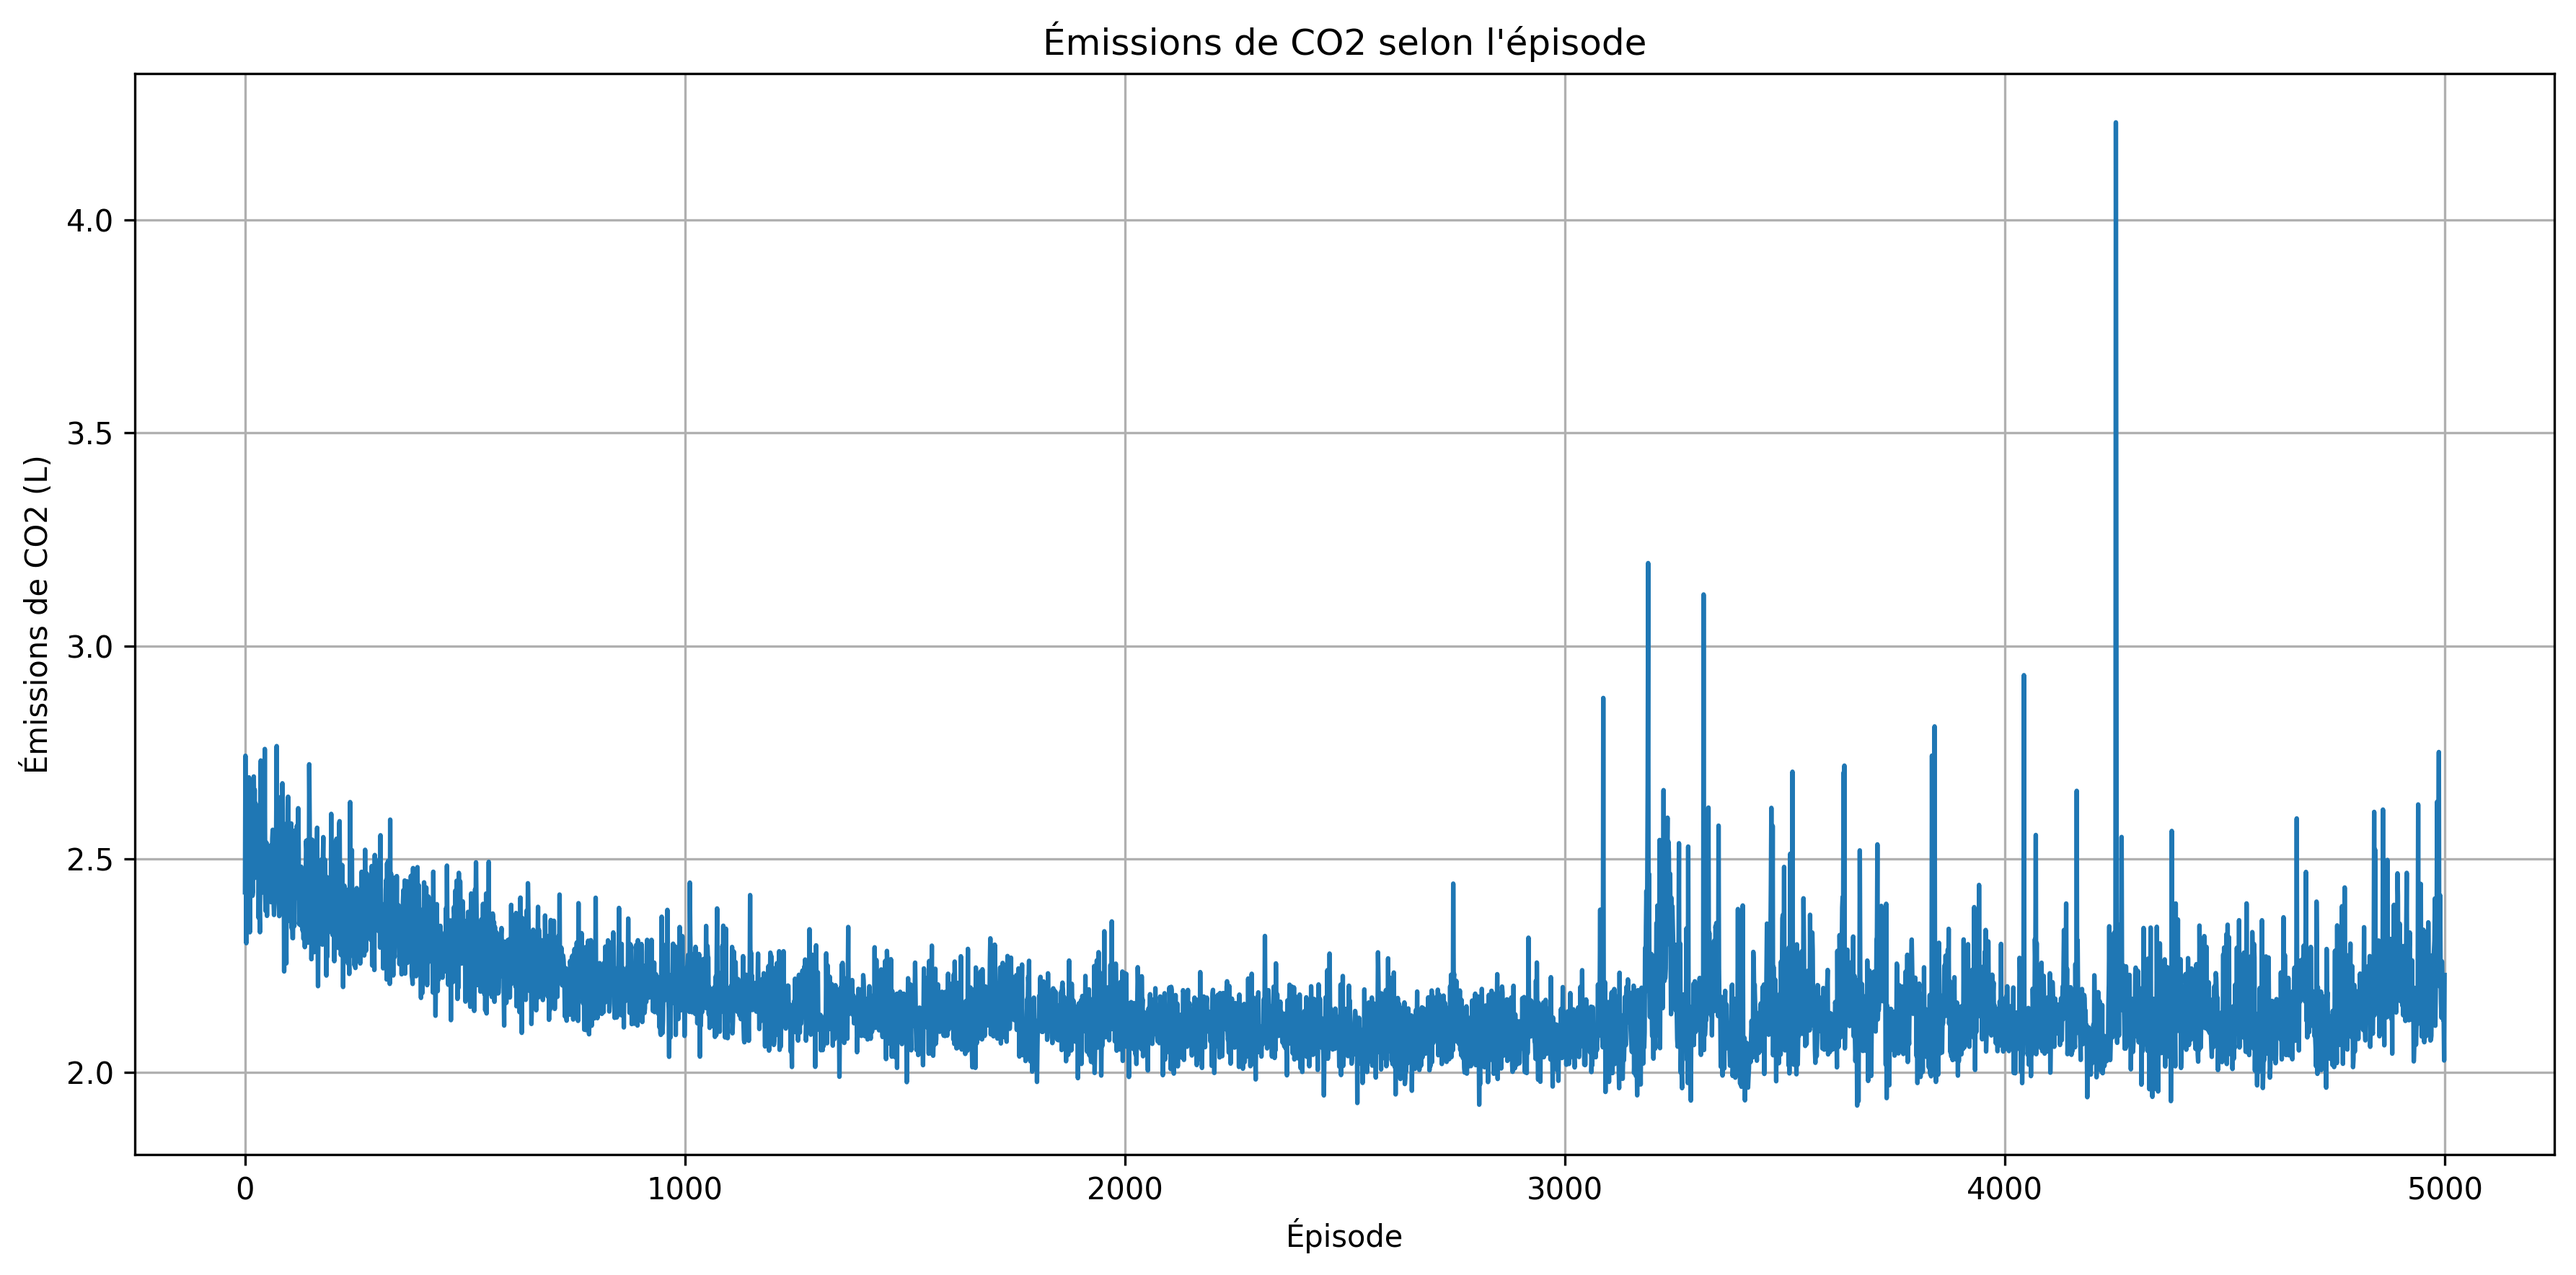
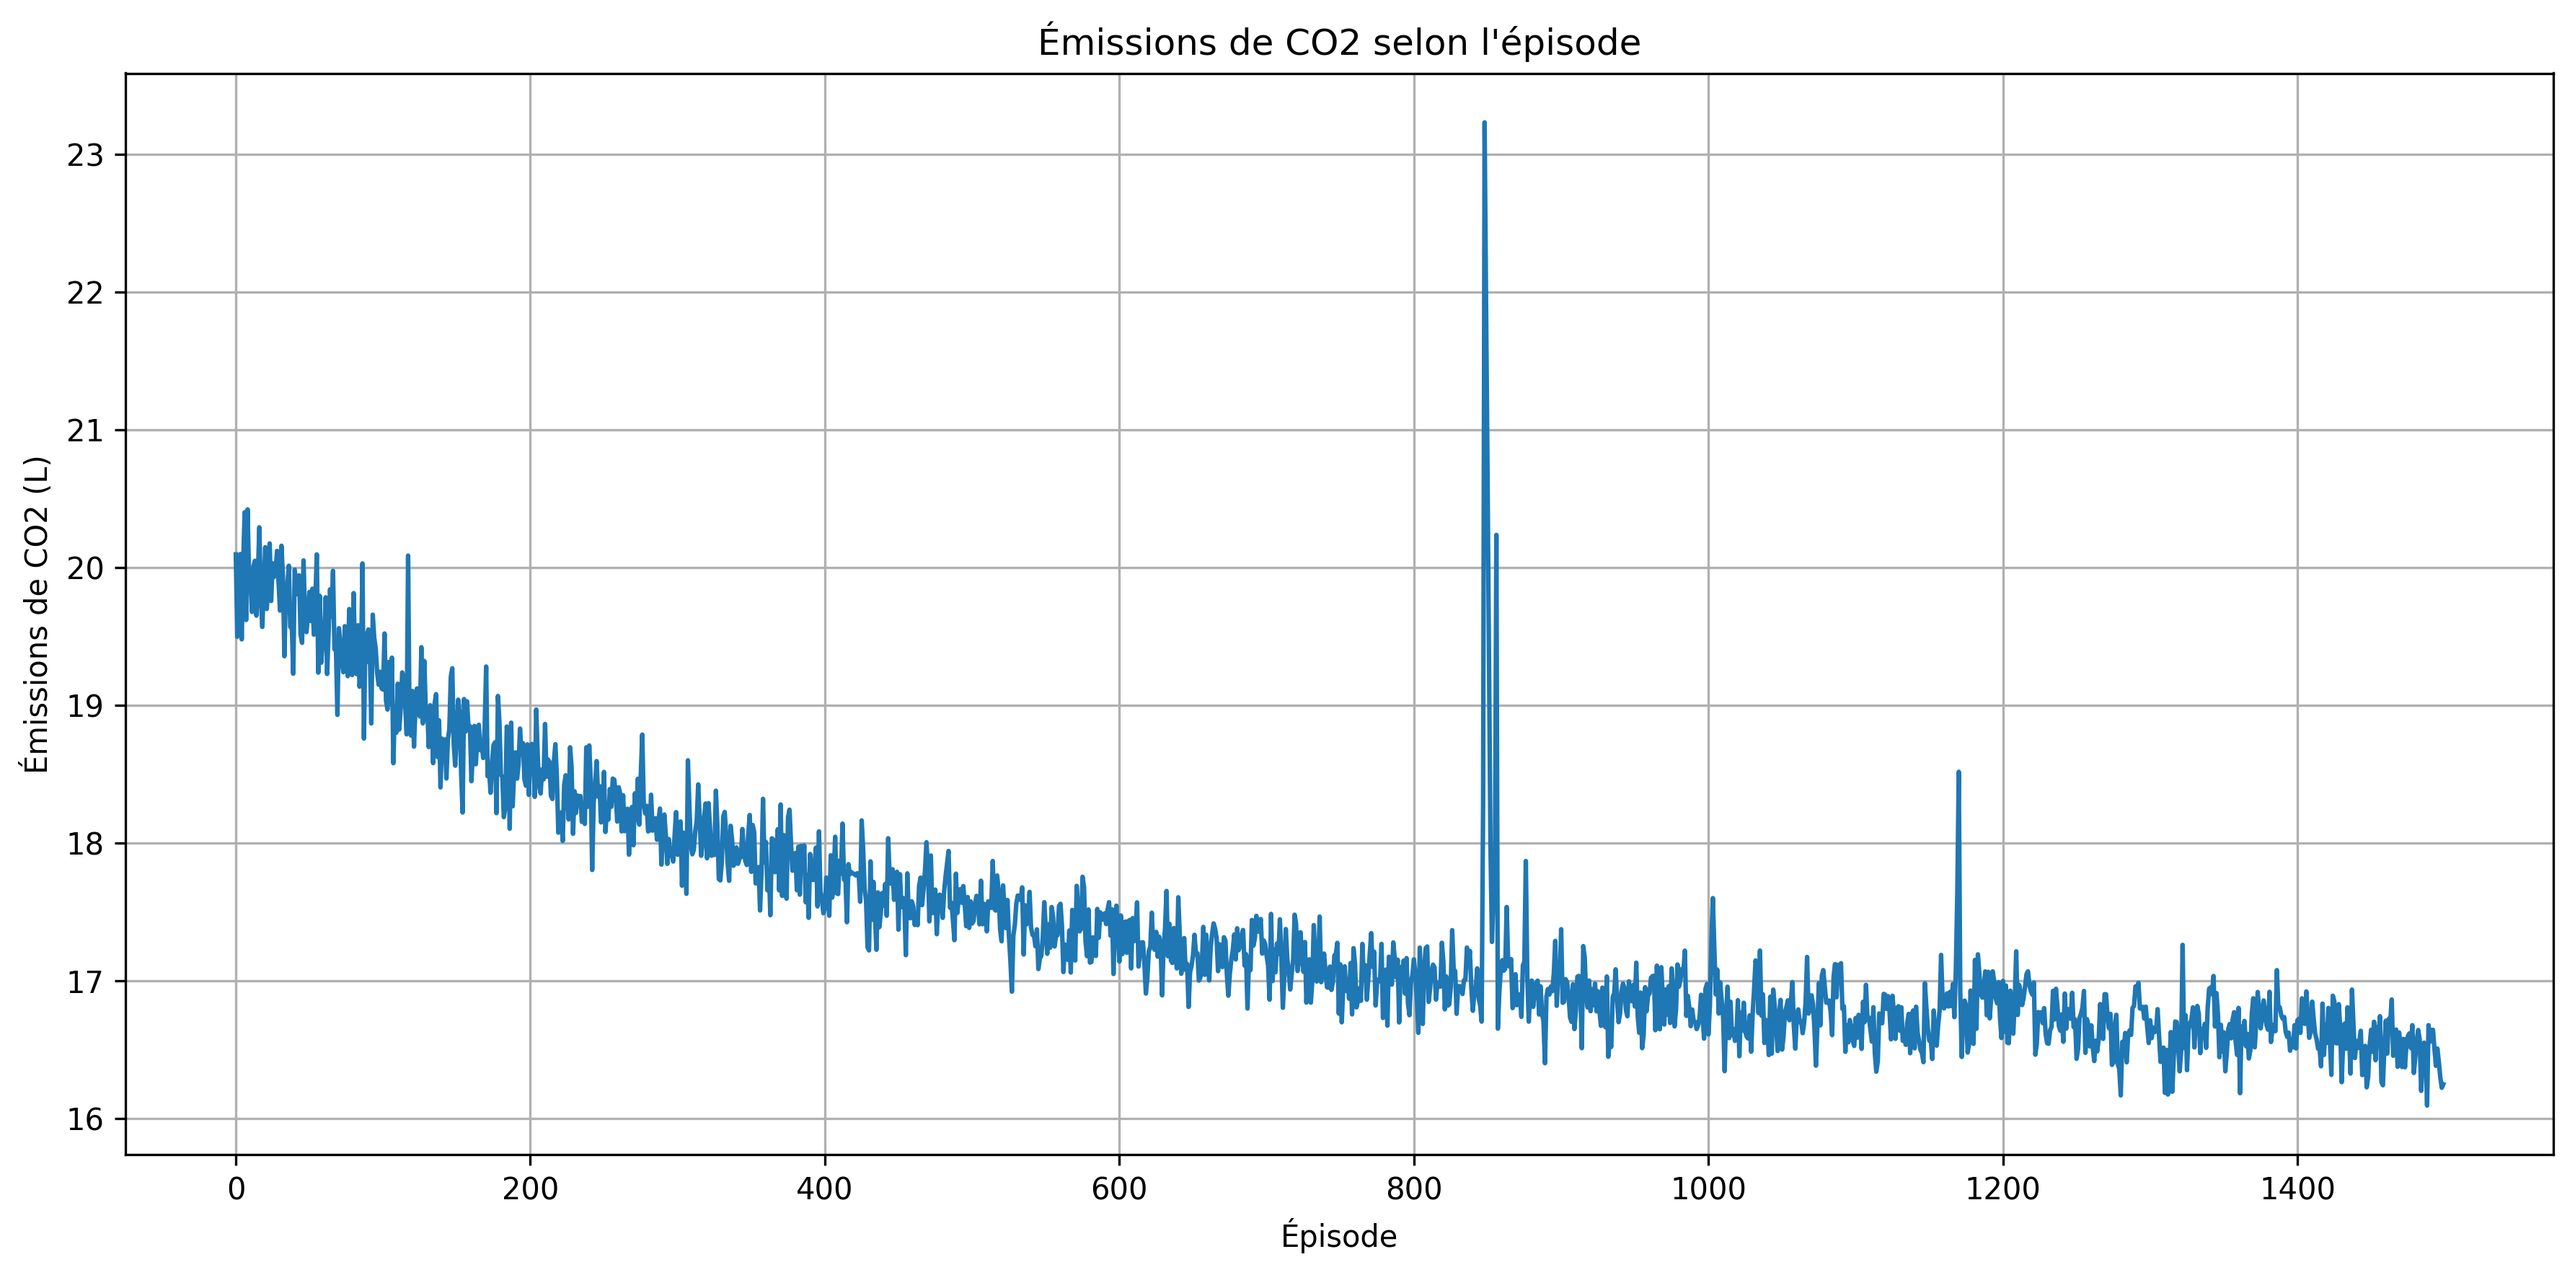
Le model qu'on utilise

diff --git a/simauto/intersection.py b/simauto/intersection.py
@@ -88,7 +88,7 @@ class IntersectionEnv(gym.Env):
 
         self.mean_waits = []
 
-        self.episode_end_threshold = 250 # in numbers of cars passed
+        self.episode_end_threshold = 2000 # in numbers of cars passed
 
         self.action_space = spaces.Discrete(6)
         self.observation_space = gym.spaces.Dict({

diff --git a/simauto/test.py b/simauto/test.py
@@ -25,7 +25,7 @@ episode_epsilons = []
 episode_mean_wait = []
 episode_emissions = []
 total_steps = 0
-n_episode = 5000
+n_episode = 1500
 for episode in range(n_episode):
     obs, _ = env.reset()
     state = state_tensor(obs)
